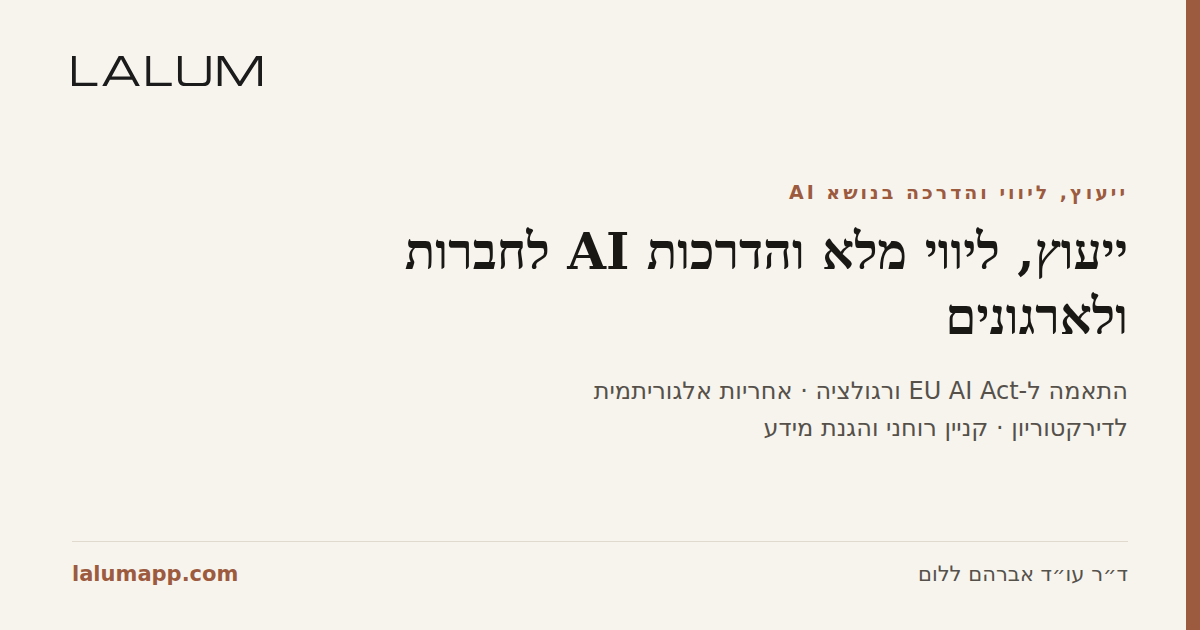
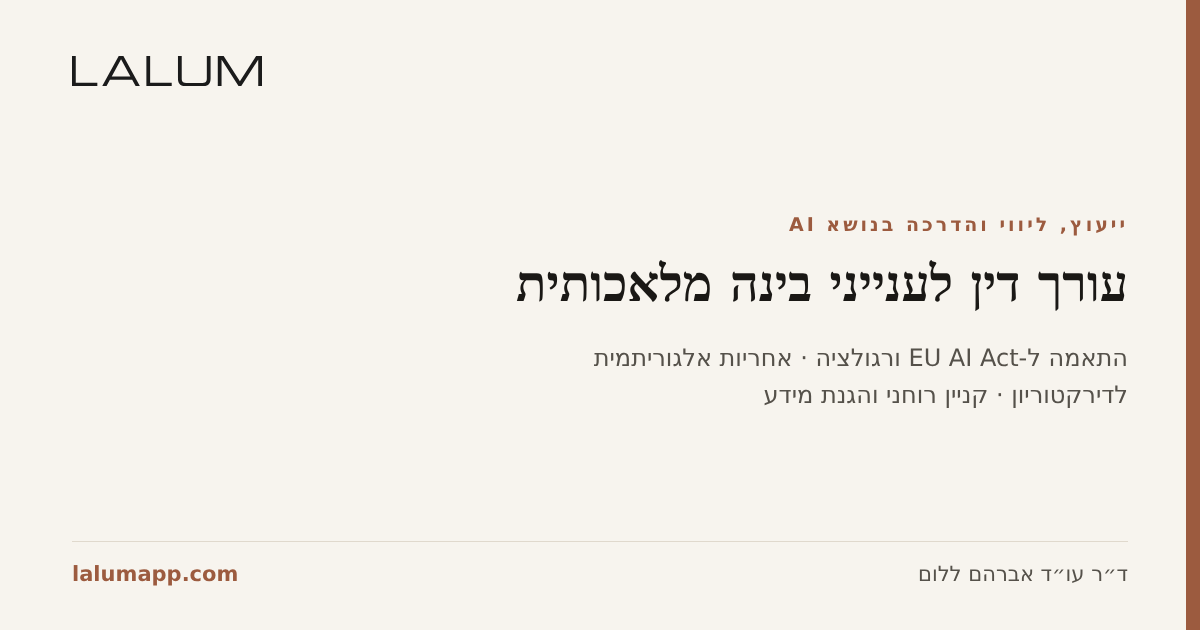
AI pillar: a title people search for, answers with links, and one step from every article
The AI pillar's title and h1 named no search anyone makes; it now says what the
page is: a lawyer for artificial intelligence matters. Its Q&A goes from 8 to 9:
three new answers (EU AI Act provider and deployer, what Israeli law already
requires, privilege when a firm adopts AI), two near duplicates folded into the
answers they repeated, and the questions that have a fuller page link to it.

Articles in the two lead areas now link straight to their service page, not
only through the topic hub; mediation keeps the hub link alone. The two lead
pillars carry a Service node tied to the firm's LegalService node, both pillars
and the government ministries rubric are listed in llms.txt, and the AI share
card is regenerated from the new title.

Claude-Session: https://claude.ai/code/session_01CXCNfqMEmwAYVSB9En2tX5

Changed region(s): [[0.3392, 0.3016, 0.9558, 0.6937], [0.7708, 0.9048, 0.925, 0.9349], [0.0617, 0.9048, 0.185, 0.9349]]

diff --git a/lalum-app/src/lib/pillars.ts b/lalum-app/src/lib/pillars.ts
@@ -15,6 +15,10 @@ import { SECTOR_TEASERS, SECTORS_UI, type SectorTeaser } from "./sectors";
 export type PillarCard = { icon: IconName; title: string; body: string };
 export type PillarStep = { n: string; title: string; body: string };
 export type PillarLink = { slug: string; title: string };
+// A pillar answer can point to the page that covers it in depth. The link is
+// shown under the answer and written into the static HTML; the FAQPage schema
+// carries the answer text only, as before.
+export type PillarQA = QA & { link?: { to: string; label: string } };
 
 export type PillarPage = {
   path: string;
@@ -46,7 +50,7 @@ export type PillarPage = {
   related: PillarLink[];
   faqEyebrow: string;
   faqH2: string;
-  faqs: QA[];
+  faqs: PillarQA[];
   ctaH2: string;
   ctaBody: string;
   disclaimer: string;
@@ -86,7 +90,7 @@ type Copy = {
   steps: { title: string; body: string }[];
   relatedH2: string;
   faqH2: string;
-  faqs: QA[];
+  faqs: PillarQA[];
   ctaH2: string;
   ctaBody: string;
   disclaimer: string;
@@ -213,8 +217,8 @@ const STEP_NUMBERS = ["1", "2", "3"];
 
 const he: { ai: Copy; realEstate: Copy } = {
   ai: {
-    title: `ייעוץ, ליווי מלא והדרכות AI לחברות ולארגונים`,
-    desc: `ייעוץ וליווי משפטי מלא לחברות ולארגונים בנושא בינה מלאכותית: ממשל AI, EU AI Act, אחריות אלגוריתמית, קניין רוחני וניהול סיכונים, לצד הדרכות להנהלה ולצוותים וחוות דעת שנייה בלתי תלויה.`,
+    title: `עורך דין לענייני בינה מלאכותית: ייעוץ, EU AI Act והדרכות לארגונים`,
+    desc: `ייעוץ משפטי בבינה מלאכותית לחברות, לרשויות ולמשרדי עורכי דין: EU AI Act, הדין בישראל ותיקון 13, חוזים מול ספקי AI, חיסיון והדרכות לצוותים.`,
     heroEyebrow: `ייעוץ, ליווי והדרכה בנושא AI`,
     lede: `חברות וארגונים מאמצים בינה מלאכותית מהר יותר משהמסגרת המשפטית מדביקה. אנחנו מלווים את הדרך כולה: מיפוי החשיפה, בניית הממשל והמדיניות, החוזים מול הספקים, הדרכת ההנהלה והצוותים שמפעילים את המערכות, וחוות דעת שנייה בלתי תלויה כשצריך עין נוספת. המטרה אחת: להפוך את הסיכון האלגוריתמי למערכת שאפשר לשלוט בה, לפני שרגולטור, דירקטוריון או תובע עושים זאת במקומכם.`,
     labels: { covers: `מה הייעוץ מכסה`, when: `חוות דעת שנייה`, steps: `איך זה עובד`, related: `להעמקה`, faq: `שאלות ותשובות` },
@@ -245,14 +249,15 @@ const he: { ai: Copy; realEstate: Copy } = {
     relatedH2: `מאמרים בנושא ייעוץ, חוות דעת ואחריות AI`,
     faqH2: `ייעוץ משפטי וחוות דעת שנייה בנושא AI`,
     faqs: [
-      { q: `מה כוללת חוות דעת משפטית שנייה בנושא AI לחברות וארגונים?`, a: `חוות דעת שנייה עצמאית בוחנת מחדש את החשיפה המשפטית של הארגון בשימוש בבינה מלאכותית: התאמה ל-EU AI Act, אחריות אלגוריתמית, הגנת פרטיות וקניין רוחני, ומבנה החוזים מול ספקי AI. המטרה היא לזהות סיכונים לפני שהם מתממשים, ולתת להנהלה ולדירקטוריון בסיס מושכל להחלטה.` },
-      { q: `מתי כדאי לפנות לייעוץ משפטי חיצוני לפני החלטת AI?`, a: `לפני הטמעת מערכת AI חדשה, לפני חתימה על חוזה עם ספק AI, לפני השקת מוצר מבוסס אלגוריתם, וכשיש אי-ודאות רגולטורית או חשיפה אישית של נושאי משרה. ייעוץ מוקדם זול ומהיר יותר מהתמודדות עם תביעה או קנס בדיעבד.` },
-      { q: `למי מיועד הייעוץ, לחברות הייטק בלבד?`, a: `לא. השירות מיועד לחברות טכנולוגיה, לתאגידים מסורתיים שמטמיעים AI, לגופים ציבוריים ולרשויות, וכן לעורכי דין ומשרדים שמבקשים חוות דעת שנייה בלתי תלויה בסוגיה מורכבת. הליבה היא המפגש בין משפט, כלכלה ובינה מלאכותית.` },
-      { q: `האם EU AI Act חל על חברה ישראלית?`, a: `הוא עשוי לחול גם בלי נוכחות פיזית באירופה, כאשר המערכת מוצעת בשוק האירופי או כאשר הפלט שלה משמש בתוך האיחוד. לכן הצעד הראשון הוא מיפוי: היכן המשתמשים והיכן נעשה שימוש בפלט.` },
+      { q: `מתי צריך עורך דין לענייני בינה מלאכותית?`, a: `לפני שההחלטה ננעלת: לפני הטמעת מערכת AI חדשה בארגון, לפני חתימה על חוזה עם ספק AI, לפני השקת מוצר מבוסס אלגוריתם, וכשיש אי-ודאות רגולטורית או חשיפה אישית של נושאי משרה. בשלב הזה התיקון עוד זול: ממפים את החשיפה מול EU AI Act, הדין בישראל והחוזים, וקובעים מה נבנה, מה נבדק ומי צריך הדרכה. ייעוץ מוקדם זול ומהיר יותר מהתמודדות עם תביעה או קנס בדיעבד.` },
+      { q: `מה כוללת חוות דעת משפטית שנייה בנושא AI לחברות וארגונים?`, a: `חוות דעת שנייה עצמאית בוחנת מחדש את החשיפה המשפטית של הארגון בשימוש בבינה מלאכותית: התאמה ל-EU AI Act, אחריות אלגוריתמית, הגנת פרטיות וקניין רוחני, ומבנה החוזים מול ספקי AI. המטרה היא לזהות סיכונים לפני שהם מתממשים, ולתת להנהלה ולדירקטוריון בסיס מושכל להחלטה. אבחון ראשוני נעשה בפגישה קצרה, וחוות דעת ממוקדת מוכנה בדרך כלל בתוך ימים ספורים עד שבועות, לפי היקף המסמכים והמערכות שנבחנות.` },
+      { q: `למי מיועד הייעוץ, לחברות הייטק בלבד?`, a: `לא. השירות מיועד לחברות טכנולוגיה, לתאגידים מסורתיים שמטמיעים AI, לגופים ציבוריים ולרשויות, וכן לעורכי דין ומשרדים שמבקשים חוות דעת שנייה בלתי תלויה בסוגיה מורכבת. חוות דעת שנייה עובדת לצד היועץ המשפטי הקיים של הארגון, לא במקומו: היא מוסיפה שכבת בדיקה בלתי תלויה ומחזקת את שני הצדדים.` },
+      { q: `האם EU AI Act חל על חברה ישראלית?`, a: `הוא עשוי לחול גם בלי נוכחות פיזית באירופה, כאשר המערכת מוצעת בשוק האירופי או כאשר הפלט שלה משמש בתוך האיחוד. לכן הצעד הראשון הוא מיפוי: היכן המשתמשים והיכן נעשה שימוש בפלט. אחריו בא סיווג כל מערכת לפי מדרג הסיכון של החוק, כי מדרגת הסיכון היא שקובעת את החובות.`, link: { to: `/insights/eu-ai-act-israeli-companies`, label: `EU AI Act וחברות ישראליות: מתי החוק חל ואיך נערכים` } },
+      { q: `מה ההבדל בין ספק (Provider) למטמיע (Deployer) לפי EU AI Act, ולמה זה חשוב לחברה ישראלית?`, a: `ספק הוא מי שמפתח מערכת AI או מזמין את פיתוחה ומעמיד אותה בשוק תחת שמו, ועליו החובות הכבדות, במיוחד במערכת בסיכון גבוה: ניהול סיכונים, ממשל נתונים, תיעוד טכני והצהרת תאימות. מטמיע הוא מי שמשתמש במערכת במסגרת פעילותו המקצועית, וחובותיו הן שימוש לפי ההוראות, פיקוח אנושי וניטור. חברה ישראלית שמייצאת מוצר AI לאירופה היא לרוב ספק. ומטמיע שמשנה מערכת באופן מהותי, או משווק אותה תחת שמו, עלול להפוך בעצמו לספק.`, link: { to: `/insights/eu-ai-act-roles-obligations`, label: `התפקידים והחובות לפי EU AI Act` } },
+      { q: `מה חל היום בישראל על שימוש של ארגון בבינה מלאכותית?`, a: `אין בישראל חוק ייעודי אחד לבינה מלאכותית, אבל יש חובות. הדין הקיים חל במלואו: הגנת הפרטיות, ובכללה תיקון 13, על עיבוד מידע אישי במערכת; איסור אפליה על מערכות שמחליטות לגבי אנשים; הגנת הצרכן מול לקוחות; ודיני הנזיקין והקניין הרוחני. בעע״מ 63194-08-25 קבע בית המשפט העליון שהשימוש בבינה מלאכותית אינו פסול כשלעצמו, ושהפסול הוא שימוש בלי בקרה שמאמתת את התוצרים. חברה שמוכרת לאירופה כפופה בנוסף ל-EU AI Act.`, link: { to: `/insights/israel-ai-regulation-policy`, label: `רגולציית בינה מלאכותית בישראל: מה חל היום ומה צפוי` } },
+      { q: `איך משרד עורכי דין או מחלקה משפטית מטמיעים AI בלי לסכן את החיסיון?`, a: `ההבחנה המרכזית היא בין כלי שמאמן את המודל שלו על מה שמוזן אליו, לבין פתרון ארגוני שמתחייב בחוזה שלא לאמן על המידע, לשמור אותו מבודד ולמחוק אותו לפי דרישה. משם: לעגן את ההתחייבות בהסכם מול הספק, לקבוע נוהל שמגדיר אילו כלים מאושרים ואיזה מידע מותר להזין, להסיר פרטים מזהים כשאפשר, ולהדריך את הצוות. גילוי הדעת העדכני של ועדת האתיקה הארצית של לשכת עורכי הדין (את/60/24) מבחין במפורש בין פלטפורמות פתוחות לסגורות.`, link: { to: `/insights/attorney-client-privilege-ai`, label: `חיסיון עורך דין ולקוח בעידן ה-AI: מה באמת מסתכן` } },
       { q: `מה כולל הליווי השוטף, ובמה הוא שונה מחוות דעת חד פעמית?`, a: `חוות דעת נותנת תמונה בנקודת זמן. ליווי שוטף אומר שאנחנו נמצאים לאורך הדרך: בונים את מסגרת הממשל והמדיניות, עוברים על החוזים מול ספקי ה-AI לפני חתימה, מלווים השקה של מוצר או מערכת חדשה, מדריכים את הצוותים שמפעילים אותם, ומעדכנים את המסגרת כשהרגולציה או המוצר משתנים. ארגון שמטמיע בינה מלאכותית ברצף זקוק לשנייה, לא לראשונה.` },
-      { q: `מה כוללות ההדרכות ולמי הן מיועדות?`, a: `הכשרות מעשיות להנהלה, לדירקטוריון, לצוותי מוצר ופיתוח ולצוותים משפטיים, מותאמות לתפקיד ולמערכות שהארגון מפעיל בפועל. הן עוסקות בשאלות שהצוות פוגש ביום העבודה: מה מותר להזין לכלי חיצוני, מה חייב להיות מתועד, מתי נדרשת הכרעה אנושית, ומה החשיפה האישית של מי שמאשר. פירוט התוכניות נמצא בעמוד הקורסים וההכשרות.` },
-      { q: `כמה זמן לוקח לקבל חוות דעת?`, a: `זה תלוי בהיקף ובמורכבות. אבחון ראשוני נעשה בפגישה קצרה, וחוות דעת ממוקדת מוכנה בדרך כלל בתוך ימים ספורים עד שבועות, לפי כמות המסמכים והמערכות שנבחנות.` },
-      { q: `האם חוות הדעת מחליפה את עורך הדין של החברה?`, a: `לא. חוות דעת שנייה נועדה לעבוד לצד היועץ המשפטי הקיים, לא במקומו. היא מוסיפה שכבת בדיקה בלתי תלויה ומחזקת את עמדת שני הצדדים.` },
+      { q: `מה כוללות ההדרכות, ויש גם קורס AI לעורכי דין?`, a: `הכשרות מעשיות להנהלה, לדירקטוריון, לצוותי מוצר ופיתוח ולצוותים משפטיים, מותאמות לתפקיד ולמערכות שהארגון מפעיל בפועל. הן עוסקות בשאלות שהצוות פוגש ביום העבודה: מה מותר להזין לכלי חיצוני, מה חייב להיות מתועד, מתי נדרשת הכרעה אנושית, ומה החשיפה האישית של מי שמאשר. לעורכי דין ולמשרדי בוטיק יש קורס AI ייעודי, על הטמעת הכלים בעבודה היומיומית בלי לפגוע בחיסיון ובאחריות המקצועית.`, link: { to: `/training`, label: `קורסים והכשרות AI, כולל קורס AI לעורכי דין` } },
     ],
     ctaH2: `מוכנים לקחת שליטה על ה-AI שבארגון?`,
     ctaBody: `פגישת אבחון קצרה ממפה את החשיפה שלכם ומגדירה מפת דרכים ברורה: מה נבנה, מה נבדק, ומי צריך הדרכה.`,

diff --git a/lalum-app/vite.config.ts b/lalum-app/vite.config.ts
@@ -18,7 +18,7 @@ import { OVERSIGHT_PAGE, OVERSIGHT_POINTS, OVERSIGHT_SOURCES } from "./src/lib/o
 import { SECURITY_PAGE, SECURITY_GROUPS, CHECKED_ON } from "./src/lib/securityPage";
 import { SECURITY_TEMPLATES } from "./src/lib/securityTemplates";
 import { TRACKS, BANDS, resultFor, resultPath, MAX_SCORE } from "./src/lib/riskScore";
-import { faqPageNode, pageJsonLd, pageNode } from "./src/lib/schema";
+import { faqPageNode, pageJsonLd, pageNode, serviceNode } from "./src/lib/schema";
 import type { QA } from "./src/lib/schema";
 import { articleFaqs } from "./src/lib/articleFaqs";
 import { toBlocks, blocksToText, parseInline } from "./src/lib/articleBlocks";
@@ -47,7 +47,7 @@ const coverUrl = (slug: string): string | undefined => {
 // description, instead of the app-shell default.
 const STATIC_ROUTES: { path: string; title: string; desc: string; noindex?: boolean; image?: string }[] = [
   { path: "advisory", title: "ייעוץ בנדל״ן, מיזוגים ורכישות וממשל AI | LALUM", desc: "ייעוץ משפטי בעסקאות נדל״ן, מיזוגים ורכישות ועסקאות בינלאומיות, התחדשות עירונית, גישור ובוררות, וממשל בינה מלאכותית כולל התאמה ל-EU AI Act." },
-  { path: "ai-legal-advisory", title: "ייעוץ, ליווי מלא והדרכות AI לחברות ולארגונים | LALUM", desc: "ייעוץ וליווי משפטי מלא לחברות ולארגונים בנושא בינה מלאכותית: ממשל AI, EU AI Act, אחריות אלגוריתמית, קניין רוחני וניהול סיכונים, לצד הדרכות להנהלה ולצוותים.", image: `${SITE}/og/pillar-ai.png` },
+  { path: "ai-legal-advisory", title: "עורך דין לענייני בינה מלאכותית: ייעוץ, EU AI Act והדרכות לארגונים | LALUM", desc: "ייעוץ משפטי בבינה מלאכותית לחברות, לרשויות ולמשרדי עורכי דין: EU AI Act, הדין בישראל ותיקון 13, חוזים מול ספקי AI, חיסיון והדרכות לצוותים.", image: `${SITE}/og/pillar-ai.png` },
   { path: "real-estate-legal-advisory", title: "נדל״ן והתחדשות עירונית בארץ ובחו״ל: ייעוץ וחוות דעת שנייה | LALUM", desc: "ייעוץ משפטי עצמאי וחוות דעת שנייה בעסקאות נדל״ן בארץ ובחו״ל ובהתחדשות עירונית (תמ״א 38 ופינוי-בינוי), בשילוב Legal AI לבדיקת נאותות וניהול סיכונים.", image: `${SITE}/og/pillar-real-estate.png` },
   { path: "mediation-dispute-resolution", title: "גישור מסחרי ויישוב סכסוכים עסקיים מכוון הכרעה | LALUM", desc: "גישור מסחרי ויישוב סכסוכים עסקיים בשיטת גישור מכוון הכרעה (DOM): סכסוכי שותפים, ספקים, נדל״ן והתחדשות עירונית, עם הערכה משפטית מנומקת והסכם בר-הגנה." },
   { path: "training", title: "קורס AI לעורכי דין והכשרות בינה מלאכותית לארגונים | LALUM", desc: "קורס AI לעורכי דין ולמשרדי עורכי דין, והכשרות בממשל בינה מלאכותית, EU AI Act וניהול סיכונים אלגוריתמי לדירקטוריונים ולצוותי מוצר." },
@@ -321,6 +321,11 @@ function articleBodyHtml(headline: string, dek: string, blocks: ArticleBlock[], 
   }
   if (topic) {
     out.push(`        <p>${esc("נושא")}: <a href="${topicPath(topic.slug)}/">${esc(topic.name)}</a></p>`);
+    // Straight to the service page, as the rendered article does, for the two
+    // areas the practice leads with only.
+    if (topic.lead && topic.pillar) {
+      out.push(`        <p>${esc("השירות בתחום")}: <a href="/${esc(topic.pillar.path)}/">${esc(topic.pillar.label)}</a></p>`);
+    }
   }
   if (related.length) {
     out.push(`        <h2>${esc(strings.he.ui.article.moreArticles)}</h2>`);
@@ -366,8 +371,11 @@ function pillarBodyHtml(p: PillarPage): string {
   out.push(`        <h2>${esc(p.relatedH2)}</h2>`);
   out.push(`        <ul>${p.related.map((r) => `<li><a href="/insights/${esc(encodeURI(r.slug))}/">${esc(r.title)}</a></li>`).join("")}</ul>`);
   out.push(`        <h2>${esc(p.faqH2)}</h2>`);
-  for (const f of faqsForPath(strings.he, `/${p.path}`)) {
+  // p.faqs is the same list faqsForPath resolves for this path, read directly
+  // so an answer's link to the page that covers it reaches the static copy too.
+  for (const f of p.faqs) {
     out.push(`        <h3>${esc(f.q)}</h3>\n        <p>${esc(f.a)}</p>`);
+    if (f.link) out.push(`        <p><a href="${esc(f.link.to)}/">${esc(f.link.label)}</a></p>`);
   }
   out.push(`        <h2>${esc(p.ctaH2)}</h2>`, `        <p>${esc(p.ctaBody)}</p>`, `        <p>${esc(p.disclaimer)}</p>`);
   return out.join("\n");
@@ -1067,7 +1075,14 @@ function seoPrerender(): Plugin {
           // so the Q&A is visible to crawlers and AI answer engines without running
           // JS. Uses the same faqsForPath/faqPageNode helpers the runtime PageMeta
           // uses, so hydration finds a matching #page-jsonld and nothing duplicates.
-          const faqNode = pageJsonLd([faqPageNode(faqsForPath(strings.he, `/${r.path}`))]);
+          // The two lead pillars also carry their Service node, as the runtime page does.
+          const leadPillar = r.path === "ai-legal-advisory" || r.path === "real-estate-legal-advisory"
+            ? pillarPagesFor("he").find((p: PillarPage) => p.path === r.path)
+            : undefined;
+          const faqNode = pageJsonLd([
+            leadPillar ? serviceNode(leadPillar.title, leadPillar.desc, leadPillar.url) : null,
+            faqPageNode(faqsForPath(strings.he, `/${r.path}`)),
+          ]);
           if (faqNode) {
             const script = `<script id="page-jsonld" type="application/ld+json">${JSON.stringify(faqNode)}</script>`;
             html = sub(html, "</head>", () => `    ${script}\n  </head>`);

diff --git a/lalum-app/src/components/PillarView.tsx b/lalum-app/src/components/PillarView.tsx
@@ -3,7 +3,7 @@ import { Link } from "../components/AppLink";
 import { scriptDir } from "../lib/hreflang";
 import { PageMeta } from "../components/PageMeta";
 import { Icon } from "../components/Icon";
-import { pageNode, faqPageNode, pageJsonLd } from "../lib/schema";
+import { pageNode, faqPageNode, pageJsonLd, serviceNode } from "../lib/schema";
 import type { PillarPage } from "../lib/pillars";
 import { DiscussionsTrigger, type DiscussionTopic } from "./DiscussionsPanel";
 import { PillarArt, type PillarArtTheme } from "./PillarArt";
@@ -37,7 +37,11 @@ export function PillarView({ P }: { P: PillarPage }) {
   const faqs = P.faqs;
   const discussionTopic = DISCUSSION_TOPIC[P.path];
   const artTheme = ART_THEME[P.path];
-  const jsonLd = pageJsonLd([pageNode("WebPage", P.title, P.desc, P.url), faqPageNode(faqs)]);
+  // The two areas the practice leads with also say what the page offers, as a
+  // Service provided by the firm's LegalService node. Mediation gets none: per
+  // the two-focus-areas rule it gets nothing new.
+  const service = artTheme ? serviceNode(P.title, P.desc, P.url) : null;
+  const jsonLd = pageJsonLd([pageNode("WebPage", P.title, P.desc, P.url), service, faqPageNode(faqs)]);
   // Single open question at a time, same as PracticeFaq. Empty string is
   // "none open", not a valid question text, so it never collides with a q.
   const [openFaq, setOpenFaq] = useState("");
@@ -198,7 +202,10 @@ export function PillarView({ P }: { P: PillarPage }) {
                   <span className="pfaq-chev" aria-hidden="true"><Icon name="chevron-d" size={18} /></span>
                 </button>
                 <div className="pfaq-a" id={`${key}-p`} role="region" aria-labelledby={`${key}-b`}>
-                  <div><p>{f.a}</p></div>
+                  <div>
+                    <p>{f.a}</p>
+                    {f.link && <p><Link to={f.link.to} style={{ color: "var(--clay)" }}>{f.link.label}</Link></p>}
+                  </div>
                 </div>
               </div>
             );

diff --git a/lalum-app/src/lib/schema.ts b/lalum-app/src/lib/schema.ts
@@ -101,6 +101,23 @@ export function pageNode(
 // Compose a page's JSON-LD from its nodes. Drops nulls, returns null when the
 // page has none, a single node (with @context) when it has one, or an @graph
 // when it has several, so one page can carry FAQPage + HowTo together.
+// A service the firm offers, tied to the sitewide LegalService node by @id so
+// the page describes one offering of the same firm rather than a second
+// business. Returns null without a name.
+export function serviceNode(name: string, description: string, url: string): object | null {
+  if (!name.trim()) return null;
+  return {
+    "@type": "Service",
+    "@id": `${url.replace(/\/+$/, "")}/#service`,
+    name,
+    description,
+    url,
+    serviceType: "Legal services",
+    areaServed: { "@type": "Country", name: "Israel" },
+    provider: { "@id": "https://lalumapp.com/#organization" },
+  };
+}
+
 export function pageJsonLd(nodes: Array<object | null>): object | null {
   const real = nodes.filter((n): n is object => Boolean(n));
   if (real.length === 0) return null;

diff --git a/lalum-app/src/pages/Article.tsx b/lalum-app/src/pages/Article.tsx
@@ -232,6 +232,15 @@ export function Article() {
             {t.insights.heroPill}:{" "}
             <Link to={topicPath(topic.slug)} style={{ color: "var(--clay)" }}>{topic.name}</Link>
           </p>
+          {/* One step to the service page instead of two through the topic hub,
+              for the two areas the practice leads with. Mediation and the
+              other topics keep the hub link alone. */}
+          {topic.lead && topic.pillar && (
+            <p style={{ fontSize: 14.5, color: "var(--slate)", margin: "6px 0 0" }}>
+              השירות בתחום:{" "}
+              <Link to={`/${topic.pillar.path}`} style={{ color: "var(--clay)" }}>{topic.pillar.label}</Link>
+            </p>
+          )}
         </section>
       )}
 
